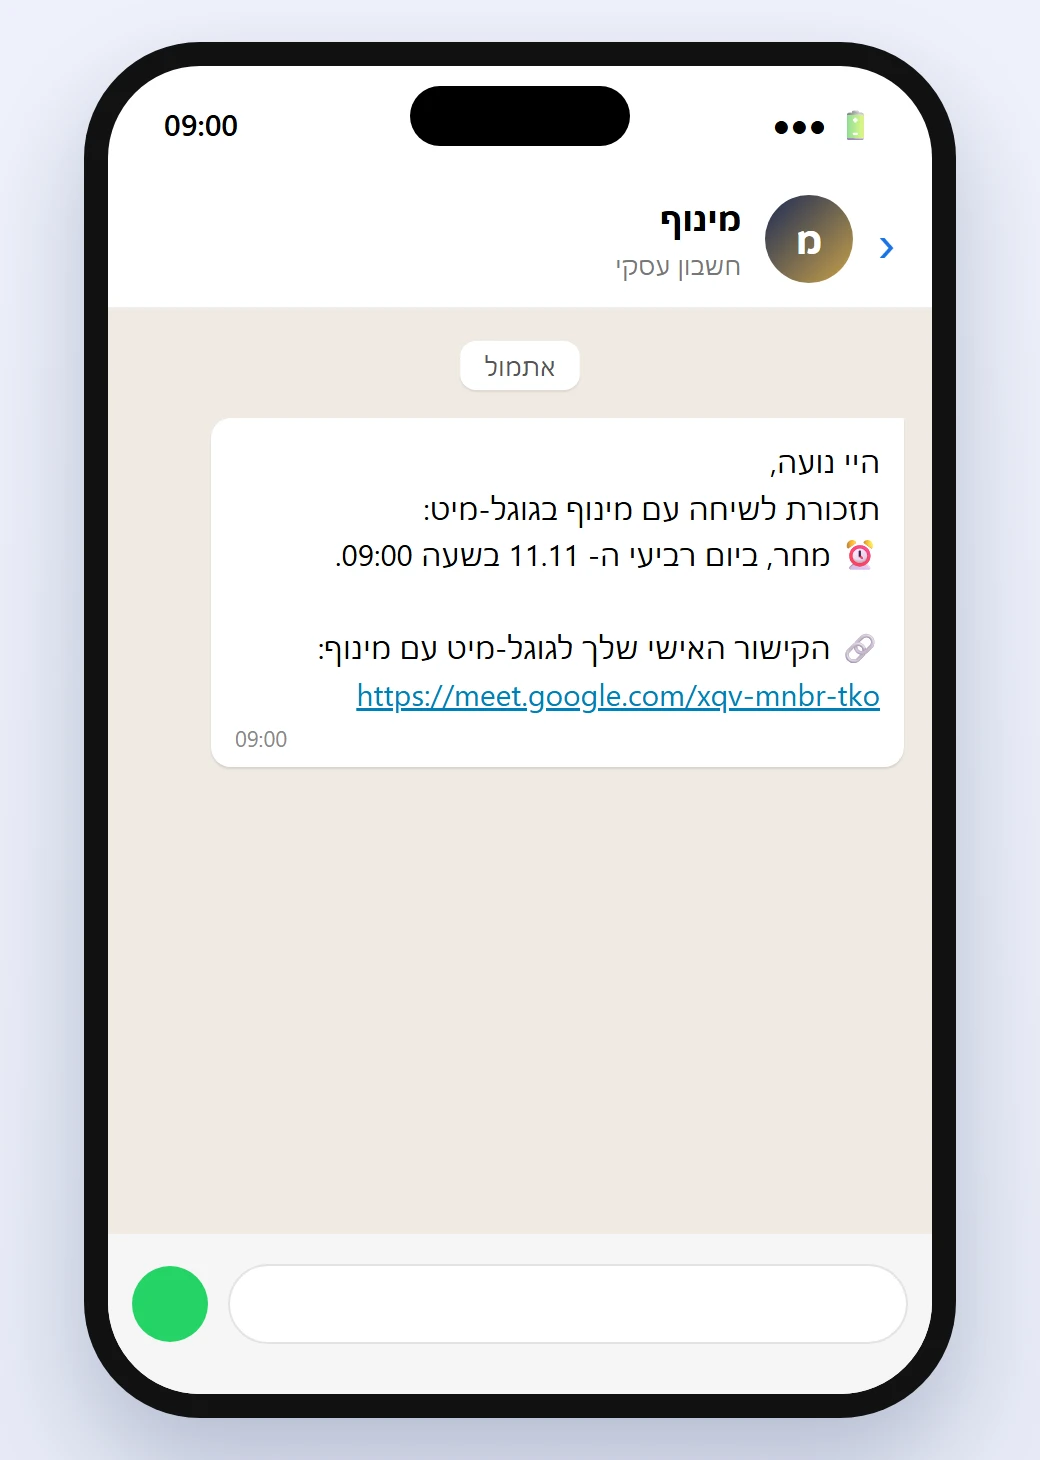
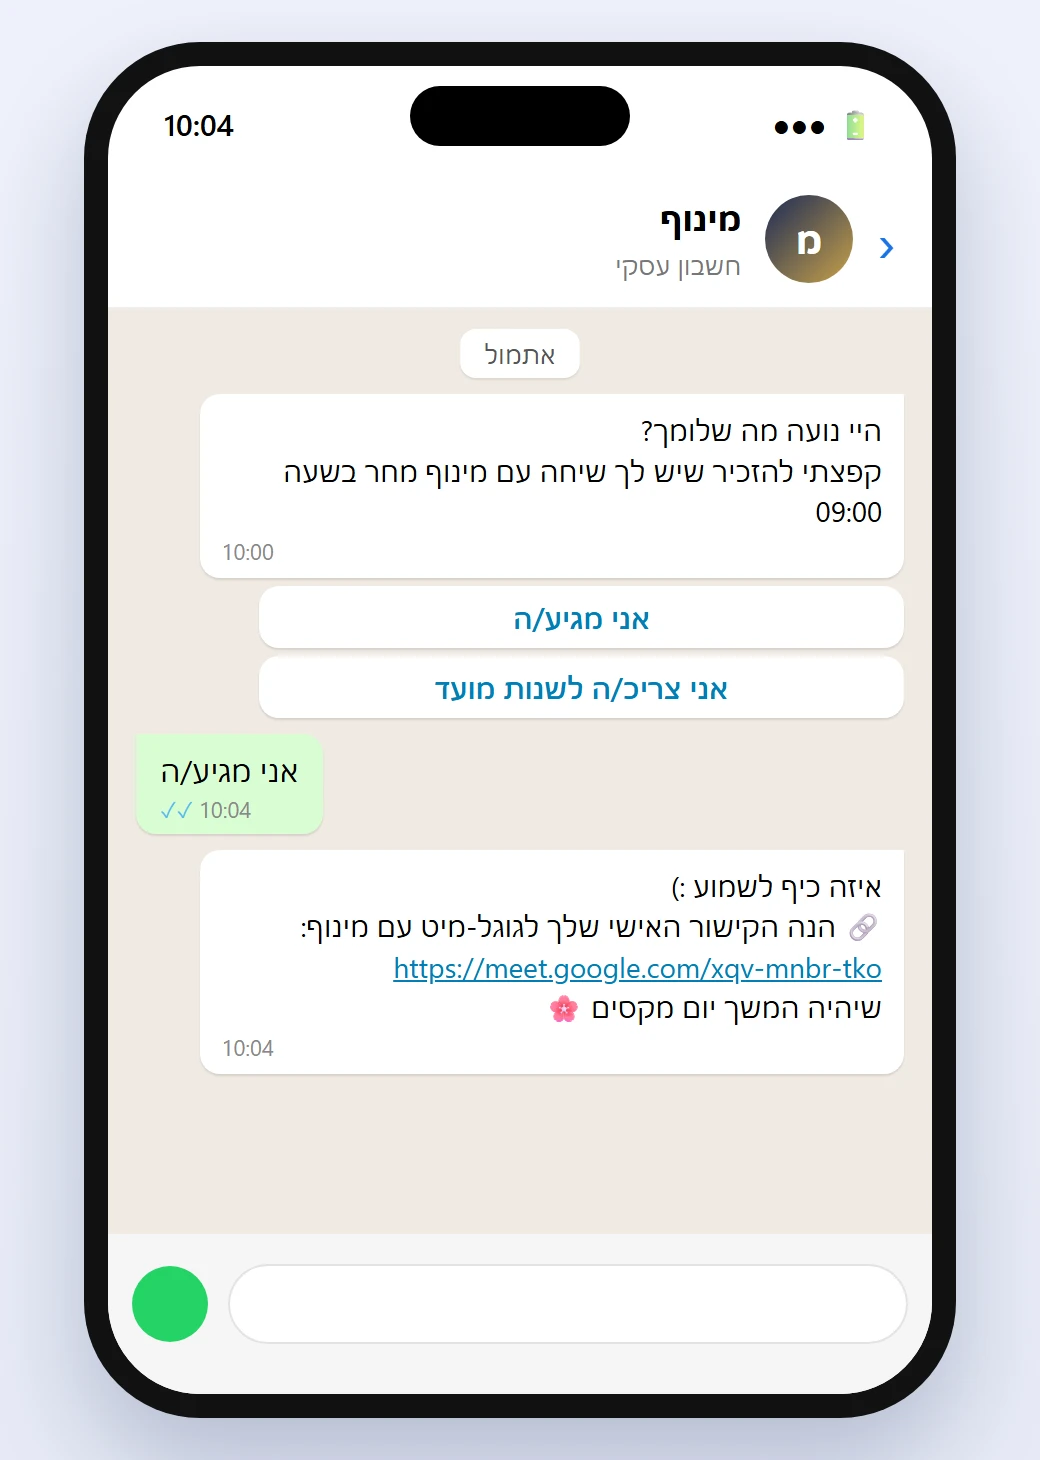
yoman: מוקאפ תזכורת הוואטסאפ בנוסח של אילנה מ-6.11 (עם הכפתורים והקישור אחרי 'אני מגיע/ה')

Changed region(s): [[0.1538, 0.2158, 0.8923, 0.7397], [0.1538, 0.0616, 0.2462, 0.0925]]

diff --git a/yoman/index.html b/yoman/index.html
@@ -233,7 +233,7 @@
         </div>
         <div class="pair-shots" style="align-items:start">
           <div><h4 class="feat-sub" style="text-align:center;margin:0 0 10px">תזכורת במייל לפני הפגישה</h4><figure class="shot"><img src="/assets/img/yoman/mail-rem.webp?v=1" width="1800" height="1197" loading="lazy" alt="מייל התזכורת שהלקוח מקבל לפני הפגישה" /></figure></div>
-          <div><h4 class="feat-sub" style="text-align:center;margin:0 0 10px">תזכורת בוואטסאפ לפני הפגישה</h4><figure class="shot"><img src="/assets/img/yoman/wa-rem.webp?v=1" width="1040" height="1460" loading="lazy" alt="הודעת התזכורת שהלקוח מקבל בוואטסאפ יום לפני הפגישה, עם הקישור לגוגל-מיט" /></figure></div>
+          <div><h4 class="feat-sub" style="text-align:center;margin:0 0 10px">תזכורת בוואטסאפ לפני הפגישה</h4><figure class="shot"><img src="/assets/img/yoman/wa-rem.webp?v=2" width="1040" height="1460" loading="lazy" alt="התזכורת בוואטסאפ יום לפני הפגישה, עם כפתור אני מגיע/ה, ואחרי הלחיצה הקישור לגוגל-מיט" /></figure></div>
         </div>
         <div>
           <p><b>התאמה אישית מלאה:</b> את הנוסח של ההודעות אתם יכולים לשנות לבד בהגדרות המערכת, עם תצוגה מקדימה שמראה בדיוק איך הלקוח יראה אותן. ותמיד אפשר לחזור לנוסח המקורי בלחיצה.</p>
